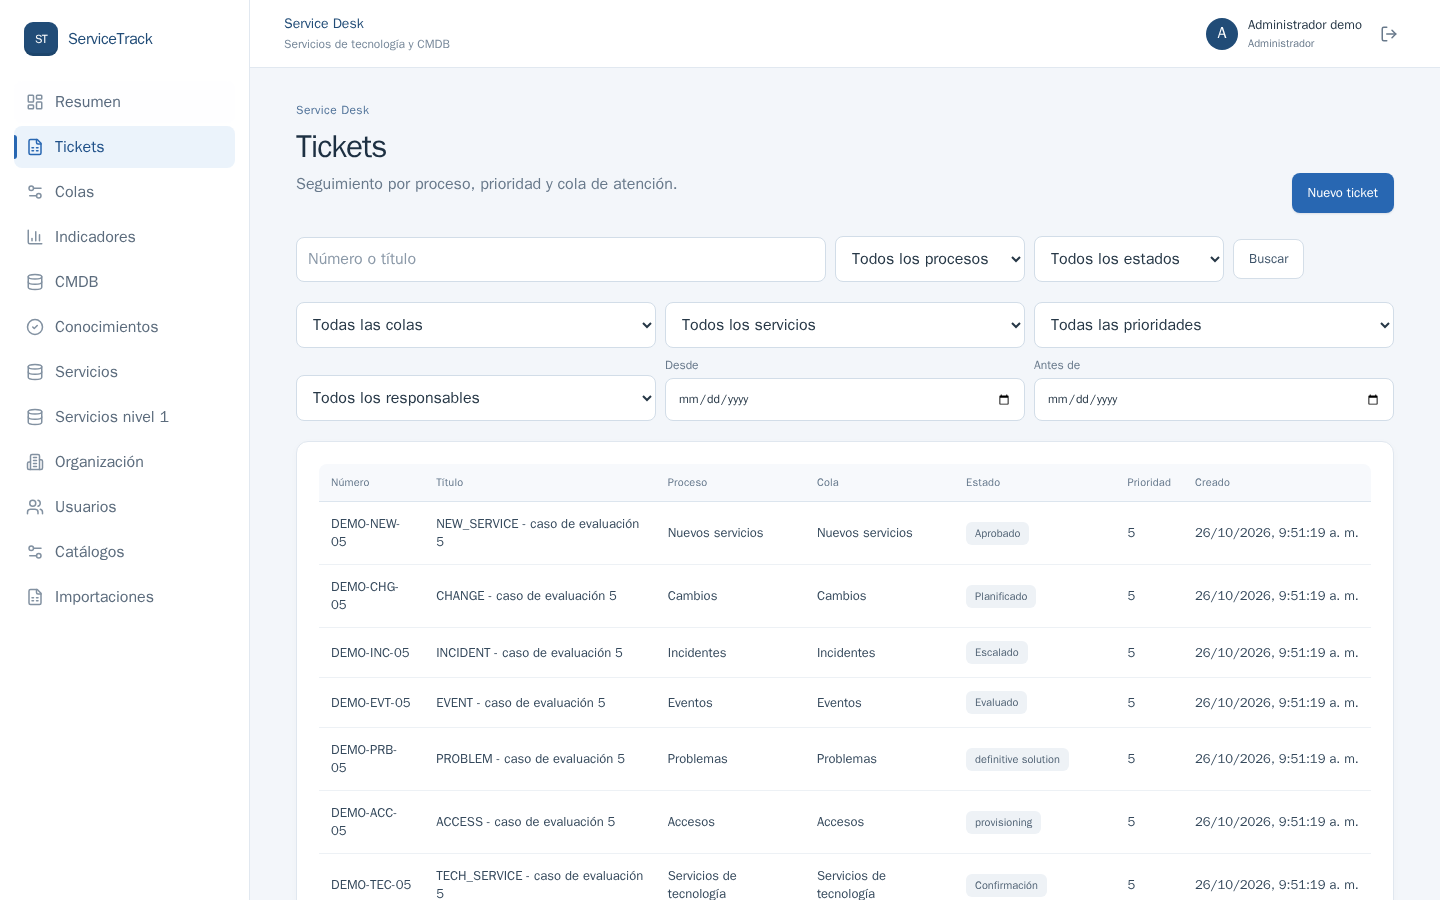
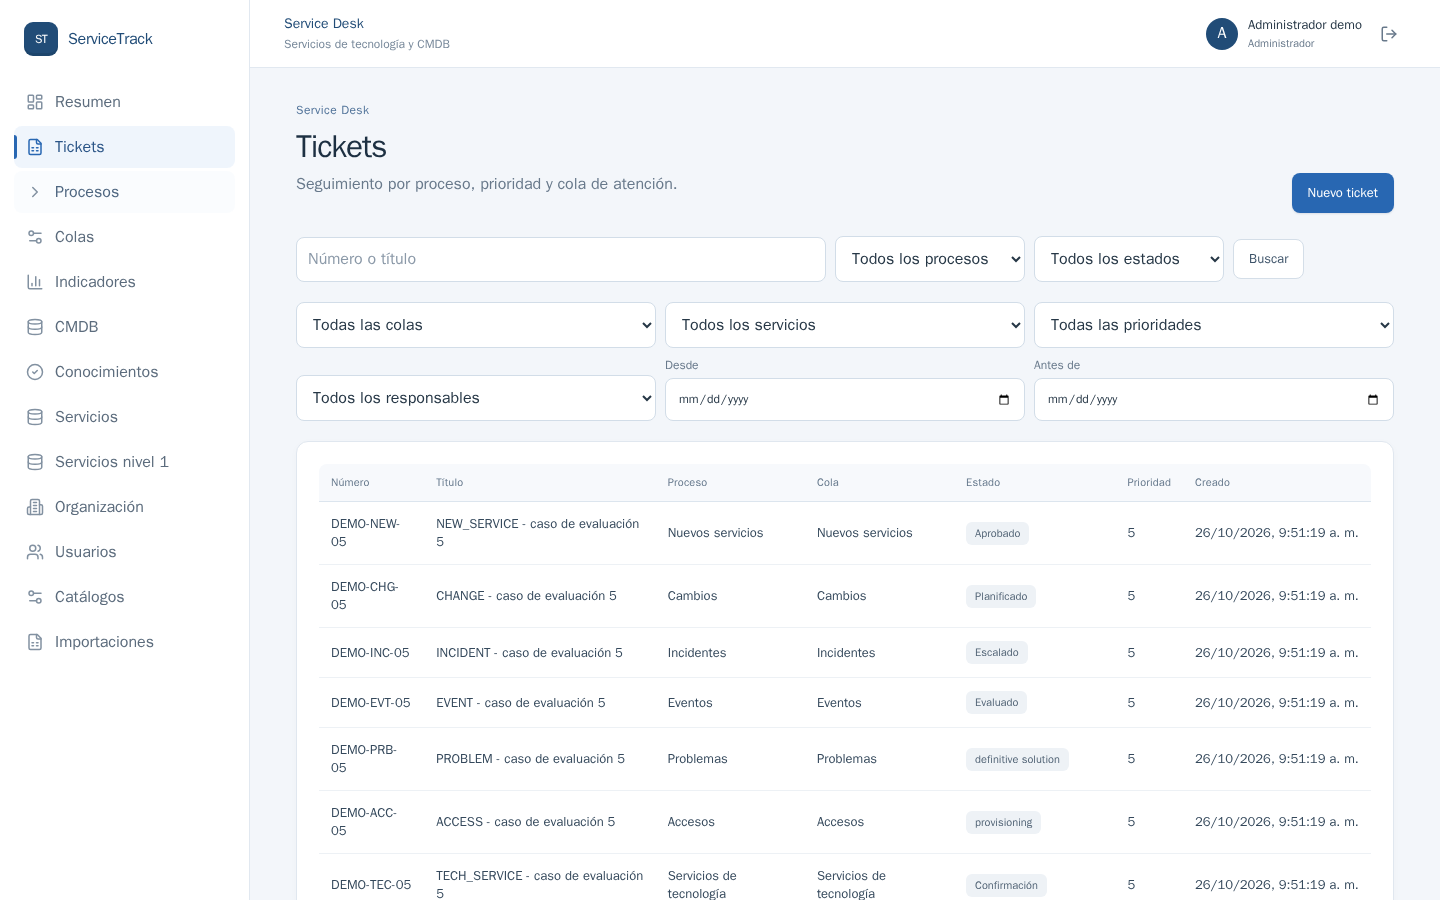
feat: add dedicated seven-process overview

diff --git a/apps/web/src/App.tsx b/apps/web/src/App.tsx
@@ -2,7 +2,7 @@ import { useCallback, useEffect, useMemo, useState, type FormEvent, type ReactNo
 import { BarChart3, Building2, CheckCircle2, ChevronRight, Database, Eye, FileSpreadsheet, LayoutDashboard, LogOut, Menu, Plus, RefreshCw, Search, Settings2, ShieldCheck, Users, X } from 'lucide-react';
 import { api, del, patch, post } from './api';
 import Level1Page from './Level1Page';
-import { CmdbPage, DeskMetricsPage, KnowledgePage, QueuesPage, TicketsPage } from './DeskPages';
+import { CmdbPage, DeskMetricsPage, KnowledgePage, ProcessesPage, QueuesPage, TicketsPage } from './DeskPages';
 
 type User = { id: number; name: string; username: string; email: string | null; role: 'ADMIN' | 'CONSULTA' | 'SOLICITANTE' | 'AGENTE' | 'APROBADOR'; roles?: string[]; active: boolean; positionId?: number; positionName?: string; sectionName?: string };
 type Service = { id: number; code: string; name: string; status: 'ACTIVE' | 'INACTIVE' | 'REVIEW'; activeCode: string | null; level1Id?: number; level1Code: string; level1Name: string; classId?: number | null; criticalityId?: number | null; typeId?: number | null; classLabel: string | null; criticalityLabel: string | null; typeLabel: string | null; metric?: string | null; description?: string | null; minimum?: number | null; maximum?: number | null; responsibleSectionId?: number | null; responsibleSectionName?: string | null; responsibleUserId?: number | null; responsibleUserName?: string | null; sourceSheet?: string | null; sourceRows?: string | null; sourceTransformations?: string | null };
@@ -33,7 +33,7 @@ function FormActions({ onCancel, loading = false }: { onCancel: () => void; load
 
 function Layout({ user, onLogout, children, page, setPage }: { user: User; onLogout: () => void; children: ReactNode; page: string; setPage: (page: string) => void }) {
   const [mobileNavOpen, setMobileNavOpen] = useState(false);
-  const items = [{ id: 'dashboard', label: 'Resumen', icon: LayoutDashboard }, { id: 'tickets', label: 'Tickets', icon: FileSpreadsheet }, { id: 'queues', label: 'Colas', icon: Settings2 }, { id: 'desk-metrics', label: 'Indicadores', icon: BarChart3 }, { id: 'cmdb', label: 'CMDB', icon: Database }, { id: 'knowledge', label: 'Conocimientos', icon: CheckCircle2 }, { id: 'services', label: 'Servicios', icon: Database }, ...(user.role === 'ADMIN' ? [{ id: 'level1', label: 'Servicios nivel 1', icon: Database }] : []), { id: 'organization', label: 'Organización', icon: Building2 }, ...(user.role === 'ADMIN' ? [{ id: 'users', label: 'Usuarios', icon: Users }, { id: 'catalogs', label: 'Catálogos', icon: Settings2 }, { id: 'imports', label: 'Importaciones', icon: FileSpreadsheet }] : [])];
+  const items = [{ id: 'dashboard', label: 'Resumen', icon: LayoutDashboard }, { id: 'tickets', label: 'Tickets', icon: FileSpreadsheet }, { id: 'processes', label: 'Procesos', icon: ChevronRight }, { id: 'queues', label: 'Colas', icon: Settings2 }, { id: 'desk-metrics', label: 'Indicadores', icon: BarChart3 }, { id: 'cmdb', label: 'CMDB', icon: Database }, { id: 'knowledge', label: 'Conocimientos', icon: CheckCircle2 }, { id: 'services', label: 'Servicios', icon: Database }, ...(user.role === 'ADMIN' ? [{ id: 'level1', label: 'Servicios nivel 1', icon: Database }] : []), { id: 'organization', label: 'Organización', icon: Building2 }, ...(user.role === 'ADMIN' ? [{ id: 'users', label: 'Usuarios', icon: Users }, { id: 'catalogs', label: 'Catálogos', icon: Settings2 }, { id: 'imports', label: 'Importaciones', icon: FileSpreadsheet }] : [])];
   return <div className="app-shell">
     {mobileNavOpen && <button className="mobile-nav-backdrop" aria-label="Cerrar menú de navegación" onClick={() => setMobileNavOpen(false)} />}
     <aside className={`sidebar${mobileNavOpen ? ' open' : ''}`}>
@@ -246,7 +246,7 @@ export default function App() {
   const [initialTicketId,setInitialTicketId] = useState<number | null>(null);
   const clearInitialTicket = useCallback(() => setInitialTicketId(null),[]);
   useEffect(() => { api<{ user: User }>('/auth/me').then((result) => setUser(result.user)).catch(() => undefined).finally(() => setChecking(false)); }, []);
-  const content = useMemo(() => { if (!user) return null; if (page === 'tickets') return <TicketsPage user={user} initialTicketId={initialTicketId} onTicketOpened={clearInitialTicket} />; if (page === 'desk-metrics') return <DeskMetricsPage />; if (page === 'cmdb') return <CmdbPage user={user} onOpenTicket={(id) => {setInitialTicketId(id);setPage('tickets');}} />; if (page === 'knowledge') return <KnowledgePage user={user} />; if (page === 'queues' && user.role === 'ADMIN') return <QueuesPage user={user} />; if (page === 'services') return <ServicesPage user={user} />; if (page === 'level1' && user.role === 'ADMIN') return <Level1Page />; if (page === 'organization') return <OrganizationPage user={user} />; if (page === 'users' && user.role === 'ADMIN') return <UsersPage />; if (page === 'catalogs' && user.role === 'ADMIN') return <CatalogsPage />; if (page === 'imports' && user.role === 'ADMIN') return <ImportsPage />; return <DashboardPage setPage={setPage} />; }, [page, user, initialTicketId, clearInitialTicket]);
+  const content = useMemo(() => { if (!user) return null; if (page === 'tickets') return <TicketsPage user={user} initialTicketId={initialTicketId} onTicketOpened={clearInitialTicket} />; if (page === 'processes') return <ProcessesPage onOpenTickets={() => setPage('tickets')} />; if (page === 'desk-metrics') return <DeskMetricsPage />; if (page === 'cmdb') return <CmdbPage user={user} onOpenTicket={(id) => {setInitialTicketId(id);setPage('tickets');}} />; if (page === 'knowledge') return <KnowledgePage user={user} />; if (page === 'queues' && user.role === 'ADMIN') return <QueuesPage user={user} />; if (page === 'services') return <ServicesPage user={user} />; if (page === 'level1' && user.role === 'ADMIN') return <Level1Page />; if (page === 'organization') return <OrganizationPage user={user} />; if (page === 'users' && user.role === 'ADMIN') return <UsersPage />; if (page === 'catalogs' && user.role === 'ADMIN') return <CatalogsPage />; if (page === 'imports' && user.role === 'ADMIN') return <ImportsPage />; return <DashboardPage setPage={setPage} />; }, [page, user, initialTicketId, clearInitialTicket]);
   if (checking) return <div className="loading-screen">Cargando aplicación...</div>; if (!user) return <Login onLogin={setUser} />;
   async function logout() { await post('/auth/logout', {}); setUser(null); }
   return <Layout user={user} onLogout={() => void logout()} page={page} setPage={setPage}>{content}</Layout>;

diff --git a/apps/web/src/DeskPages.tsx b/apps/web/src/DeskPages.tsx
@@ -471,6 +471,35 @@ export function DeskMetricsPage() {
   </div>;
 }
 
+const processGuide: Record<string,{ summary:string; evidence:string[]; rules:string[]; route:string[] }> = {
+  NEW_SERVICE:{summary:'Solicitar y evaluar un servicio que todavía no está en el catálogo.',evidence:['Necesidad y viabilidad','Servicio existente o código y nombre propuestos','Resultado de implementación'],rules:['La aprobación vincula un servicio existente o crea uno en revisión sin duplicar códigos.','El rechazo detiene la implementación.'],route:['SUBMITTED','ANALYSIS','PENDING_APPROVAL','APPROVED','IMPLEMENTING','RESOLVED','CLOSED']},
+  CHANGE:{summary:'Evaluar, aprobar y ejecutar un cambio controlado.',evidence:['CI afectados','Impacto y riesgo','Plan de pruebas y reversión','Resultados de ejecución y validación'],rules:['No se ejecuta sin aprobación registrada.','El alcance aprobado queda protegido.'],route:['SUBMITTED','RISK_ASSESSMENT','PENDING_APPROVAL','APPROVED','PLANNED','EXECUTING','VALIDATING','RESOLVED','CLOSED']},
+  INCIDENT:{summary:'Restaurar un servicio interrumpido o degradado y registrar la solución.',evidence:['Categoría I0–I6','Interrupción o degradación y duración','Redundancia y solución aplicada'],rules:['El escalamiento exige una cola del mismo proceso con nivel superior.','La resolución exige una solución documentada.'],route:['SUBMITTED','CLASSIFIED','DIAGNOSING','IN_PROGRESS','RESOLVED','CLOSED']},
+  EVENT:{summary:'Registrar y evaluar eventos; convertir E2/E3 en incidentes atendibles.',evidence:['Categoría E0–E3','Evaluación para E1–E3','Incidente y notificación para E2/E3'],rules:['E0 se registra y cierra; E1 se evalúa sin respuesta operativa.','E2/E3 generan o vinculan un único incidente.'],route:['SUBMITTED','CLASSIFIED','EVALUATED','RESPONDED','CLOSED']},
+  PROBLEM:{summary:'Encontrar la causa de incidentes repetidos y su corrección definitiva.',evidence:['Incidentes vinculados','Causa raíz','Solución temporal o error conocido','Solución definitiva y cambio relacionado'],rules:['La investigación requiere al menos un incidente vinculado.','El cambio puede documentar la corrección.'],route:['SUBMITTED','INVESTIGATING','WORKAROUND','KNOWN_ERROR','DEFINITIVE_SOLUTION','RESOLVED','CLOSED']},
+  ACCESS:{summary:'Autorizar y comprobar la provisión o revocación de un acceso.',evidence:['Beneficiario, recurso y permiso','Aprobación o rechazo','Resultado de provisión o revocación y validación'],rules:['El solicitante no puede autoaprobarse.','No se resuelve antes de validar el resultado.'],route:['SUBMITTED','PENDING_APPROVAL','APPROVED','PROVISIONING','VALIDATING','RESOLVED','CLOSED']},
+  TECH_SERVICE:{summary:'Atender una prestación de un servicio que ya existe en el catálogo.',evidence:['Servicio existente y prestación solicitada','Asignación y cumplimiento','Confirmación del solicitante'],rules:['Se distingue de proponer un servicio nuevo.','La asignación requiere un agente autorizado.'],route:['SUBMITTED','VALIDATING','ASSIGNED','FULFILLING','CONFIRMING','RESOLVED','CLOSED']},
+};
+
+export function ProcessesPage({ onOpenTickets }: { onOpenTickets: () => void }) {
+  const stateLabels: Record<string,string> = { IMPLEMENTING:'Implementación', RISK_ASSESSMENT:'Evaluación de riesgo', PROVISIONING:'Provisión o revocación', ASSIGNED:'Asignado', WORKAROUND:'Solución temporal', KNOWN_ERROR:'Error conocido', DEFINITIVE_SOLUTION:'Solución definitiva' };
+  const [queues,setQueues] = useState<Queue[]>([]);
+  const [error,setError] = useState('');
+  const [selected,setSelected] = useState('NEW_SERVICE');
+  useEffect(() => { api<Queue[]>('/desk/queues').then(setQueues).catch((err) => setError(message(err))); }, []);
+  const guide = processGuide[selected];
+  const related = queues.filter((queue) => queue.process === selected);
+  return <div className="page process-page">
+    <div className="page-heading"><div><p className="eyebrow">Service Desk</p><h1>Siete procesos de atención</h1><p className="muted">Elige un proceso para ver su recorrido, las evidencias exigidas y sus colas configuradas.</p></div></div>
+    {error && <div className="alert error">{error}</div>}
+    <div className="process-layout"><nav className="process-list" aria-label="Seleccionar proceso">{Object.keys(processGuide).map((key) => <button key={key} className={selected===key?'process-choice selected':'process-choice'} aria-current={selected===key?'true':undefined} onClick={() => setSelected(key)}><strong>{label(key)}</strong><small>{queues.filter((queue) => queue.process===key && queue.active).length} cola(s) activa(s)</small></button>)}</nav>
+      <section className="panel process-detail"><p className="eyebrow">Proceso · {label(selected)}</p><h2>{label(selected)}</h2><p className="muted">{guide.summary}</p><div className="process-columns"><div><h3>Ruta principal</h3><ol className="process-steps">{guide.route.map((state,index) => <li key={`${state}-${index}`}>{stateLabels[state] ?? label(state)}</li>)}</ol><p className="muted">Puede haber rutas alternativas de rechazo, escalamiento o reapertura según el caso.</p></div><div><h3>Evidencias y datos</h3><ul>{guide.evidence.map((item) => <li key={item}>{item}</li>)}</ul><h3>Reglas para avanzar</h3><ul>{guide.rules.map((item) => <li key={item}>{item}</li>)}</ul></div></div>
+        <div className="desk-section"><h3>Colas de este proceso</h3>{related.length ? <div className="process-queues">{related.map((queue) => <span className="badge" key={queue.id}>{queue.code} · {queue.name} · nivel {queue.support_level}{queue.active?'':' · inactiva'}</span>)}</div> : <p className="muted">No hay colas visibles para esta cuenta.</p>}</div>
+        <p className="muted">Esta vista explica los flujos. Las transiciones, permisos y validaciones efectivas se comprueban en el servidor al operar un ticket.</p><button className="primary" onClick={onOpenTickets}>Abrir tickets</button>
+      </section></div>
+  </div>;
+}
+
 export function KnowledgePage({ user }: { user: Account }) {
   const [rows,setRows] = useState<Array<{id:number;title:string;body:string;serviceCode:string|null}>>([]);
   const [title,setTitle] = useState(''); const [body,setBody] = useState(''); const [error,setError] = useState('');

diff --git a/apps/web/src/styles.css b/apps/web/src/styles.css
@@ -45,6 +45,18 @@
 @media (max-width: 640px) { .button-row { width: 100%; } .button-row button { flex: 1; } .import-facts, .summary-grid { grid-template-columns: 1fr 1fr; } }
 .desk-detail { width: min(900px, 100%); }
 .desk-section { margin-top: 22px; border-top: 1px solid var(--color-border); padding-top: 19px; }
+.process-layout { display: grid; grid-template-columns: minmax(220px,280px) minmax(0,1fr); gap: 18px; align-items: start; }
+.process-list { display: grid; gap: 8px; }
+.process-choice { display: grid; gap: 5px; width: 100%; text-align: left; padding: 14px 16px; border: 1px solid var(--color-border); border-radius: 9px; background: var(--color-surface,#fff); color: var(--color-text); cursor: pointer; }
+.process-choice small { color: var(--color-text-muted,#69788a); }
+.process-choice.selected { border-color: var(--color-primary); background: #edf5ff; }
+.process-detail { padding: 24px; }
+.process-detail h2 { margin-top: 0; }
+.process-columns { display: grid; grid-template-columns: repeat(2,minmax(0,1fr)); gap: 24px; }
+.process-columns li { margin: 0 0 10px; line-height: 1.45; }
+.process-steps { padding-left: 26px; }
+.process-queues { display: flex; flex-wrap: wrap; gap: 8px; }
+@media (max-width: 800px) { .process-layout, .process-columns { grid-template-columns: 1fr; } }
 .desk-section h3 { margin-top: 0; }
 .desk-section textarea, .stack-form textarea { width: 100%; padding: 11px 12px; border: 1px solid var(--color-border); border-radius: 7px; font: inherit; resize: vertical; }
 .desk-actions { margin-top: 14px; }

diff --git a/README.md b/README.md
@@ -36,6 +36,8 @@ En **Linux/macOS**, sustituya únicamente la copia del archivo por `cp .env.exam
 
 El script de preparación crea ocho colas (una por cada uno de los siete procesos y una cola adicional de nivel 2 para escalar incidentes) y 37 tickets de muestra: cinco por proceso y dos adicionales de incidentes. Verifica que cada proceso tenga tickets en varios estados, que existan cuentas activas para administrador, consulta, solicitante, agentes y aprobador, y que la muestra incluya E0–E3 e I0–I6. E0 queda como registro sin evaluación ni respuesta; E1 conserva evaluación sin respuesta; E2/E3 quedan pendientes de evaluación. El script repara fixtures antiguos de demostración y registra esas reparaciones en la bitácora; la repetición no duplica tickets.
 
+La sección **Procesos** del menú lateral presenta los siete recorridos en una sola pantalla: ruta principal, evidencias, reglas para avanzar y colas configuradas. Es una guía de consulta; las operaciones y restricciones reales se ejecutan en la API al trabajar con tickets. Para la defensa, selecciona varios procesos en esa vista y luego abre **Tickets** para demostrar uno en vivo.
+
 La importación de `data/fuentes/CMDB.xlsx` procesa dos CI originales y registra las referencias ambiguas sin inventar destinos; la generación agrega **5,000 dispositivos distintos**. Los comandos de carga son repetibles y no borran datos existentes. Ambos Excel originales se conservan sin cambios.
 
 En **Colas**, `ADMIN` crea una cola con responsable activo, proceso, nivel, objetivos y regla de orden (`prioridad → antigüedad` o `antigüedad → prioridad`). `ADMIN` puede delegar la administración de una cola con el permiso `can_admin`; ese permiso permite editarla, gestionar sus accesos y asignar tickets a usuarios autorizados. En **Tickets**, un agente con permiso puede tomar un caso libre; el administrador global o de la cola puede asignarlo o reasignarlo. La API conserva actor, motivo y valores anteriores/nuevos. La [política de autorización y asignación](docs/PROCESOS.md#colas-autorización-y-asignación) explica los bloqueos al desactivar usuarios o colas.

diff --git a/docs/GUIA_PRESENTACION_PROCESOS.md b/docs/GUIA_PRESENTACION_PROCESOS.md
@@ -1,0 +1,12 @@
+# Cómo mostrar los siete procesos
+
+1. Inicia sesión y pulsa **Procesos** en el menú lateral. La columna izquierda contiene los siete procesos y cuántas colas activas tiene cada uno. La parte derecha muestra su ruta principal, evidencias, reglas y colas.
+2. Selecciona **Nuevos servicios**. Explica que hay análisis y aprobación, y que el resultado es vincular un servicio existente o crear uno sin duplicarlo.
+3. Selecciona **Cambios**. Señala CI, riesgo, plan de pruebas y reversión. Di: «La API impide ejecutar sin aprobación registrada».
+4. Selecciona **Incidentes** y **Eventos**. Distingue la recuperación de un incidente de la evaluación E0–E3; E2/E3 crean o vinculan un incidente.
+5. Selecciona **Problemas**, **Accesos** y **Servicios de tecnología**. Señala, respectivamente, causa raíz y cambio vinculado; beneficiario y prohibición de autoaprobación; prestación de un servicio ya existente.
+6. Pulsa **Abrir tickets** para pasar de la explicación a un caso real. Abre un ticket de muestra y enseña su estado, evidencias y botones disponibles. La vista Procesos es explicativa: los controles efectivos viven en el servidor.
+
+![Vista de procesos con ruta, evidencias, reglas y cola](img/guia-tickets/07-procesos.png)
+
+La tabla completa de flujos y condiciones está en [PROCESOS.md](PROCESOS.md). La prueba P09 en [PRUEBAS.md](PRUEBAS.md) recorre las siete rutas y rechaza transiciones inválidas; P10 comprueba cambio sin aprobación y autoaprobación de acceso.
